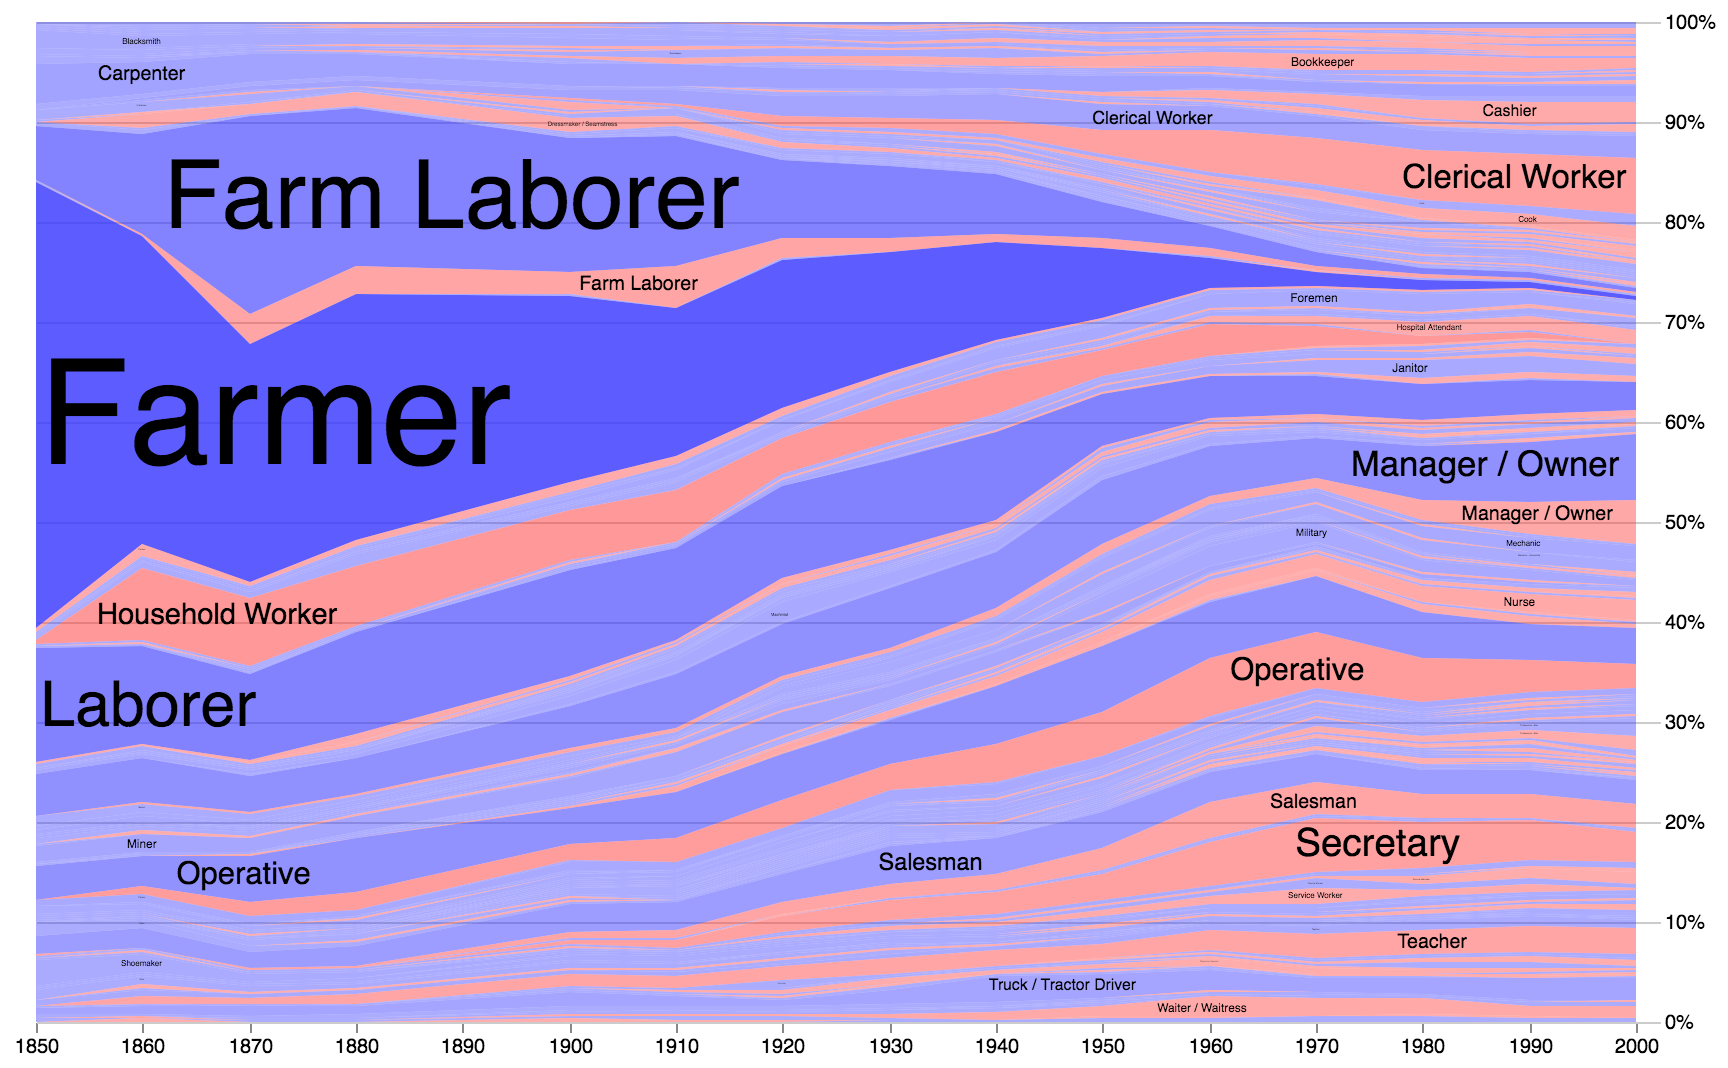
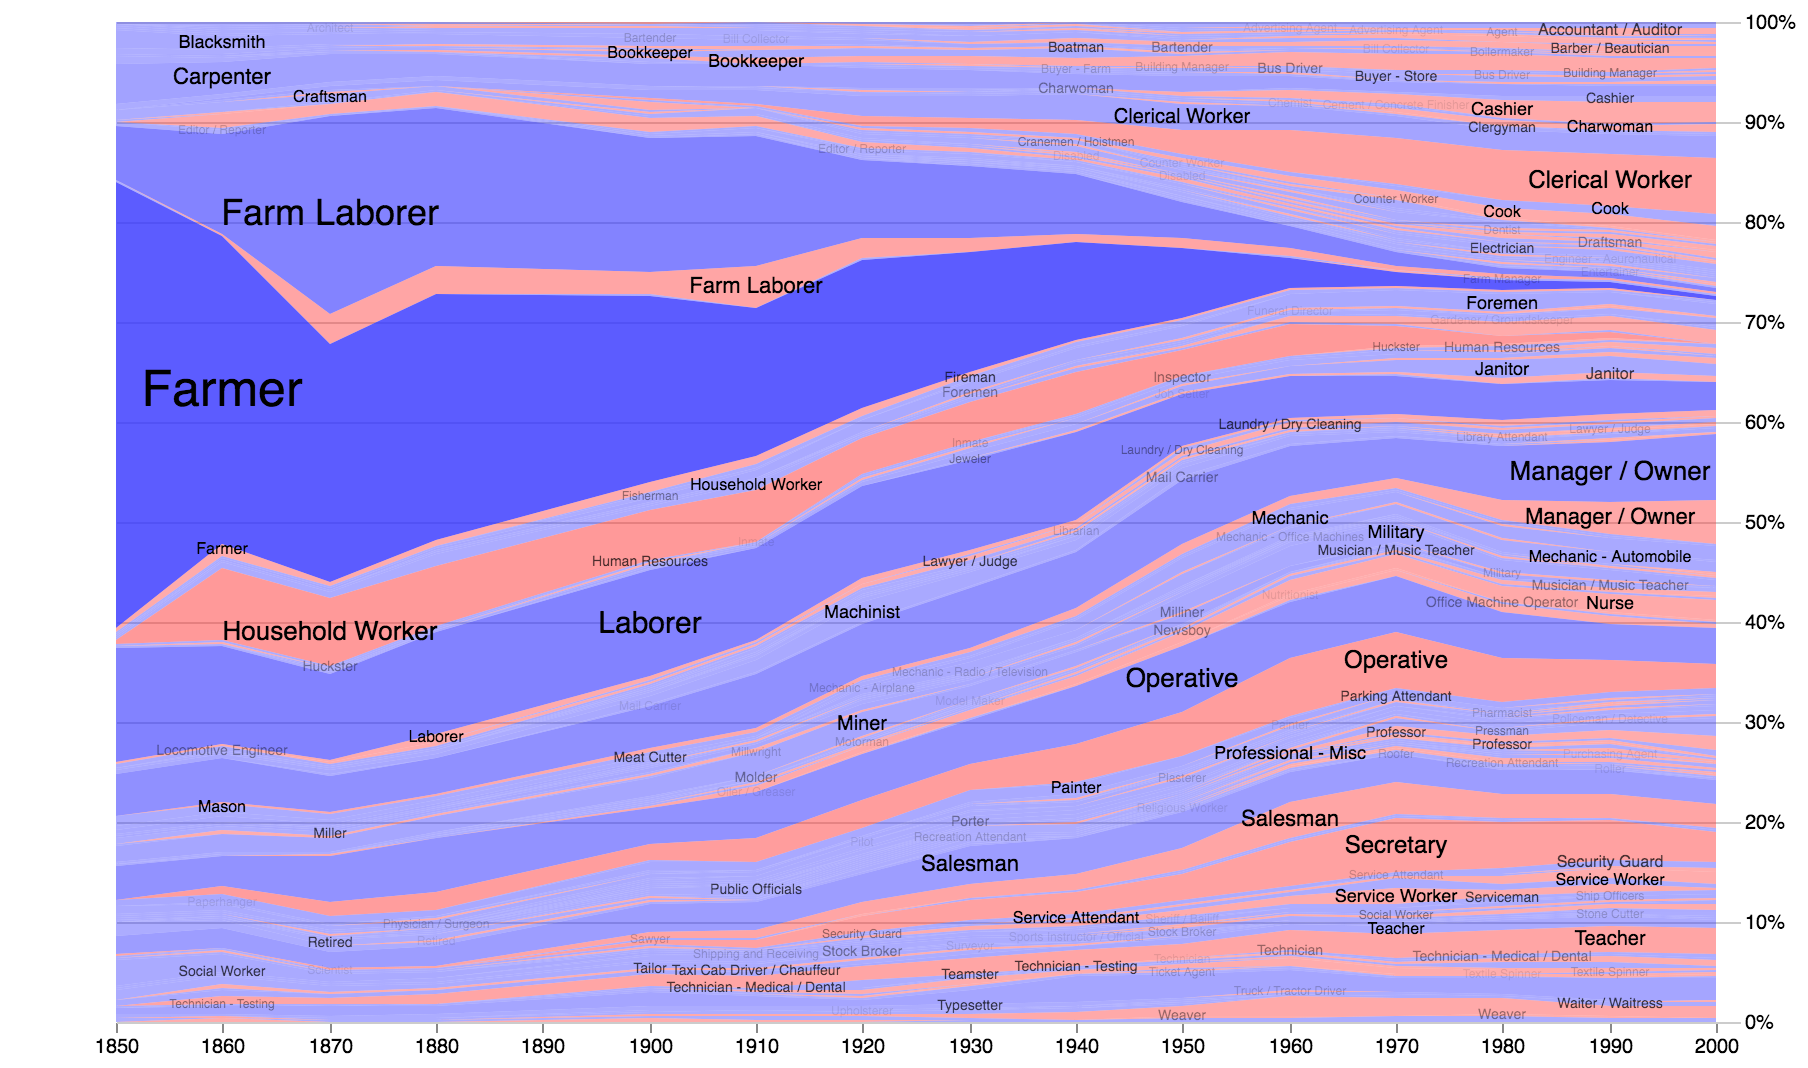
update readme

diff --git a/demo.js b/demo.js
@@ -5,7 +5,7 @@ var rawFile = new XMLHttpRequest();
 // prettier-ignore
 var specName
 // ---------area---------
-= "area_job_voyager";
+// = "area_job_voyager";
 // = 'area';
 
 // ---------line---------
@@ -18,7 +18,7 @@ var specName
 // = 'rect';
 
 // -------scatter--------
-// = 'scatter_asteroids';
+= 'scatter_asteroids';
 // = 'scatter_big_symbol';
 // = 'scatter_car';
 // = 'scatter_test';

diff --git a/src/PixelBasedLabel.js b/src/PixelBasedLabel.js
@@ -378,7 +378,7 @@ function getMarkBitMap(data, width, height, marktype, avoidMarks, anchors, offse
         }
       }
     }
-  } else {
+  } else if (avoidBaseMark) {
     var d;
     for (i = 0; i < n; i++) {
       d = data[i];

diff --git a/README.md b/README.md
@@ -15,7 +15,8 @@ Vega-Label is a post-encoding transform for [Vega](https://github.com/vega/vega)
     "sort": { "field": "datum.year" },
     "anchors": [ "top", "right" ]
     "avoidMarks": [ "basePoint", "baseLine" ],
-    "allowOutside": true
+    "allowOutside": true,
+    "avoidBaseMark": false
   }
 ]
 ```
@@ -39,7 +40,9 @@ Vega-Label is a post-encoding transform for [Vega](https://github.com/vega/vega)
 - `avoidMarks`: list of data of mark; labels will not collide with these marks
   - Right now, `avoidMarks` works with `symbol`, `line`, `rect`, and `group`.
 
-- `allowOutside`: a flag if labels are allow to be placed outside the area of chart.
+- `allowOutside`: a flag specifying if labels are allow to be placed outside the area of chart.
+
+- `avoidBaseMark`: a flag specifying if labels are avoiding their base mark or not.
 
 - label transform has to be used with reactive geometry to use it as base mark to calculate positions of label
   - Right now, reactive geometry works with `symbol`, `line`, `rect`, and `group` of `line` and `area`
@@ -52,7 +55,7 @@ Vega-Label is a post-encoding transform for [Vega](https://github.com/vega/vega)
 
 ![area_job_voyager](pics/label_area_job_voyager.png)
 
-Groups of area are used as the base mark, so one label is placed inside each area.
+Groups of area are used as the base mark, but `avoidBaseMark` flag is `false`, so labels can collide with their marks.
 Here is the [Vega Specification](./spec/label_area_job_voyager.vg.json)
 
 This example is from Vega [Job Voyager Example](https://vega.github.io/vega/examples/job-voyager/)
